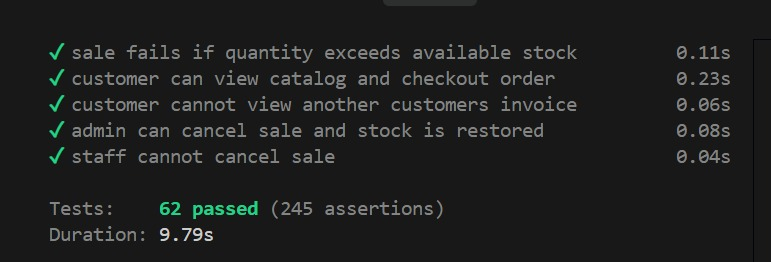
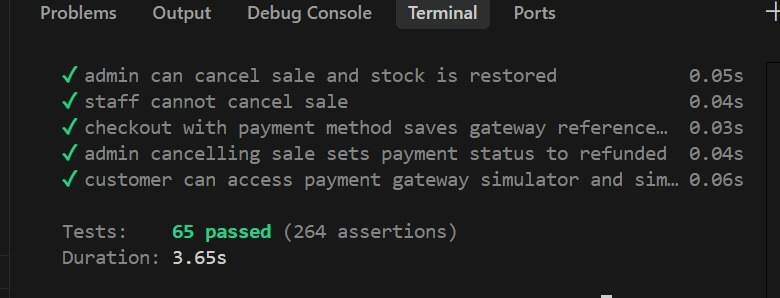
docs(readme): add complete application, payment gateway, and testing screenshots

diff --git a/README.md b/README.md
@@ -19,6 +19,7 @@ Aplikasi sistem informasi pengelolaan persediaan barang (inventaris) dan transak
 - [Akun Demo Pengujian](#-akun-demo-pengujian)
 - [Entity Relationship Diagram (ERD) & Relasi Database](#-entity-relationship-diagram-erd--relasi-database)
 - [Automated Feature Tests (8 Skenario Wajib UTS)](#-automated-feature-tests-8-skenario-wajib-uts)
+- [Screenshots Aplikasi & Bukti Pengujian](#-screenshots-aplikasi--bukti-pengujian)
 - [Batasan Sistem (Known Limitations)](#-batasan-sistem-known-limitations)
 
 ---
@@ -312,7 +313,7 @@ Aplikasi dilengkapi pengujian otomatis menggunakan PHPUnit yang memverifikasi se
 
 ### Cara Menjalankan Automated Tests:
 ```bash
-# Menjalankan seluruh test suite (58 tests, 216 assertions)
+# Menjalankan seluruh test suite (65 tests, 264 assertions)
 php artisan test
 
 # Menjalankan khusus 8 skenario wajib UTS
@@ -321,11 +322,65 @@ php artisan test --filter=InventorySalesSystemTest
 
 ---
 
+## 📸 Screenshots Aplikasi & Bukti Pengujian
+
+Berikut adalah dokumentasi antarmuka aplikasi **ElectroMart** beserta bukti pengujian fungsionalitas dan validasi sistem:
+
+### 1. Halaman Autentikasi & Login Multi-Role
+Halaman masuk terpadu dengan autentikasi berbasis session, proteksi CSRF, deteksi role otomatis (Admin, Staff, Customer), serta tombol kredensial demo untuk pengujian cepat.
+![Halaman Login](public/screenshots/tampilan%20login.png)
+
+### 2. Dashboard Admin & Peringatan Stok Menipis (Low-Stock Alert)
+Dashboard real-time administrator menampilkan metrik pendapatan hari ini, omset bulanan, pengeluaran restock, jumlah produk aktif, serta tabel peringatan darurat bagi produk yang stoknya berada di bawah batas minimum (`whereColumn('stock', '<=', 'minimum_stock')`).
+![Dashboard Admin](public/screenshots/dashboard%20admin.png)
+
+### 3. Master Data - Detail Spesifikasi Produk Elektronik
+Halaman inspeksi detail produk elektronik menampilkan SKU unik, kategori, merk dagang, harga modal beli, harga jual ke pelanggan, margin laba, sisa stok gudang, dan riwayat transaksi barang terkait.
+![Detail Produk](public/screenshots/halaman%20detail%20produk.png)
+
+### 4. Master Data - Manajemen & Edit Kategori Produk
+Formulir pengelolaan kategori barang elektronik yang dilengkapi validasi keunikan nama kategori serta pencegahan penghapusan kategori (*foreign key integrity*) jika masih terasosiasi dengan produk aktif.
+![Edit Kategori](public/screenshots/halaman%20edit%20kategori.png)
+
+### 5. Master Data - Manajemen & Edit Supplier Resmi
+Antarmuka pengelolaan database distributor dan supplier resmi perangkat elektronik mencakup pencatatan nama perusahaan, nomor kontak telepon, email korespondensi, dan alamat kantor.
+![Edit Supplier](public/screenshots/halaman%20edit%20supplier.png)
+
+### 6. Transaksi Pengadaan Pembelian Barang Masuk (Stock-In)
+Pencatatan nota pembelian barang dari pemasok resmi ke gudang. Kuantitas stok produk di database bertambah secara otomatis dan atomik setelah transaksi berhasil disimpan.
+![Halaman Pembelian](public/screenshots/halaman%20pembelian.png)
+
+### 7. Transaksi Kasir Penjualan POS (Point of Sales)
+Mesin kasir digital untuk Staff dan Admin yang melayani transaksi belanja langsung di counter toko, mendukung pemilihan metode pembayaran (Tunai maupun ElectroPay Gateway), kalkulasi subtotal otomatis, dan cetak faktur struk resmi.
+![Halaman Penjualan](public/screenshots/halaman%20penjualanan.png)
+
+### 8. Katalog Belanja Mandiri Customer (E-Commerce)
+Halaman katalog publik yang memungkinkan pembeli menjelajahi perangkat elektronik, melihat ketersediaan stok, memilih varian warna, memasukkan ke keranjang belanja interaktif, dan memproses checkout pesanan mandiri (*guest checkout*).
+![Tampilan Customer](public/screenshots/tampilan%20customer.png)
+
+### 9. Fitur Pencarian Cerdas (Search) & Filter Multi-Kriteria
+Pengujian fitur filter dan pencarian instan berdasarkan nomor SKU, nama produk, kategori, status stok (Tersedia / Stok Rendah / Habis), serta rentang tanggal transaksi yang tetap mempertahankan parameter query saat berpindah halaman (*pagination withQueryString*).
+![Fitur Pencarian](public/screenshots/Tampilan%20fitur%20Pencarian%20(Search).png)
+
+### 10. Proteksi Hak Akses & Penolakan HTTP 403 Forbidden
+Mekanisme keamanan *Role-Based Authorization Middleware* yang secara ketat memblokir akses pengguna non-admin (Staff atau Customer) saat mencoba membuka atau mengeksekusi endpoint khusus Administrator.
+![Tampilan Pesan Error 403](public/screenshots/tampilan%20pesan%20error.png)
+
+### 11. Validasi Ketat Stok Tidak Mencukupi (Insufficient Stock Error State)
+Validasi integritas inventaris yang menolak transaksi apabila kuantitas barang yang dipesan melebihi sisa stok riil di database, mencegah terjadinya *overselling* atau nilai stok negatif.
+![Insufficient Stock Error State](public/screenshots/Insufficient%20stock%20error%20state.jpeg)
+
+### 12. Bukti Hasil Pengujian Otomatis (Automated PHPUnit Tests)
+Hasil eksekusi pengujian otomatis `php artisan test` yang memvalidasi seluruh fungsionalitas sistem (autentikasi, otorisasi role, kalkulasi stok atomik, payment gateway, dan isolasi data) dengan status kelulusan **100% PASS (65 passed, 264 assertions)** tanpa error.
+![Hasil Testing](public/screenshots/hasil%20testing.jpeg)
+
+---
+
 ## ⚠ Batasan Sistem (Known Limitations)
 
 Sesuai ruang lingkup dan batasan proyek Ujian Tengah Semester (UTS):
-1. **Simulasi Pembayaran Langsung (Direct Settlement)**:
-   Alur kasir POS dan checkout pelanggan disederhanakan sebagai pembayaran langsung berstatus lunas (`completed`) tanpa integrasi API *Payment Gateway* pihak ketiga (seperti Midtrans, Xendit, atau DOKU).
+1. **Payment Gateway Simulator (ElectroPay / Midtrans Snap)**:
+   Telah terintegrasi simulator gerbang pembayaran multi-channel (QRIS Standar Nasional, Virtual Account BCA/BSI/Mandiri, E-Wallet, dan Tunai Kasir) dengan mekanisme *callback* instan tanpa memerlukan credentials production berbayar.
 2. **Tanpa Integrasi API Ekspedisi**:
    Sistem pengiriman produk belum terhubung dengan kalkulator ongkos kirim real-time (seperti RajaOngkir).
 3. **Single Warehouse Inventory**:
